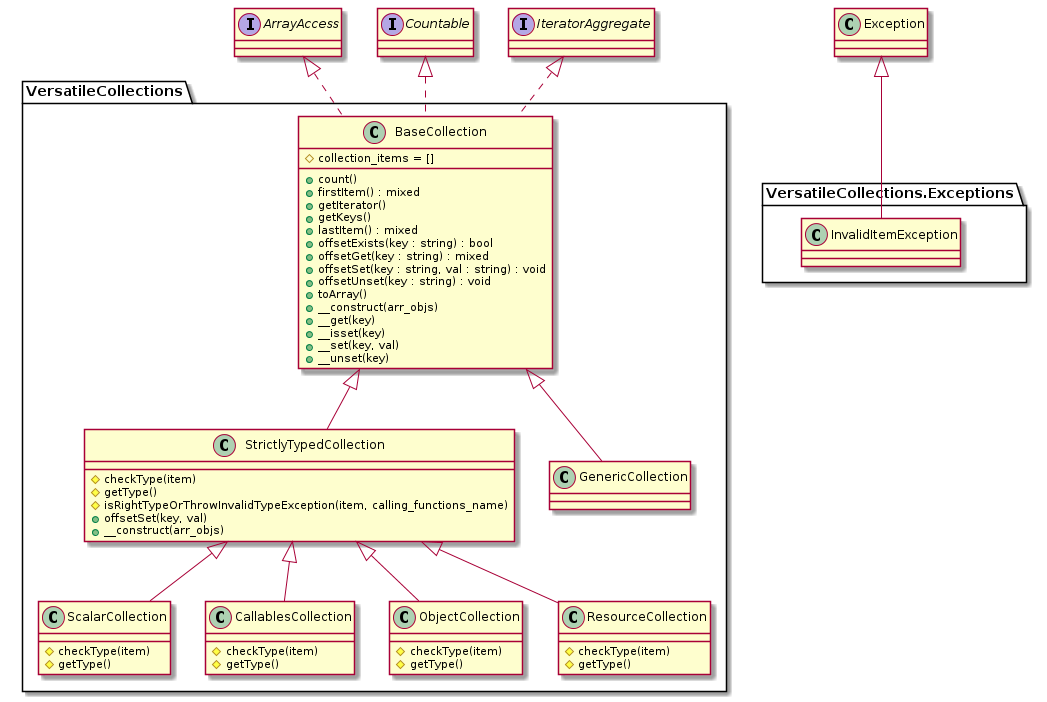
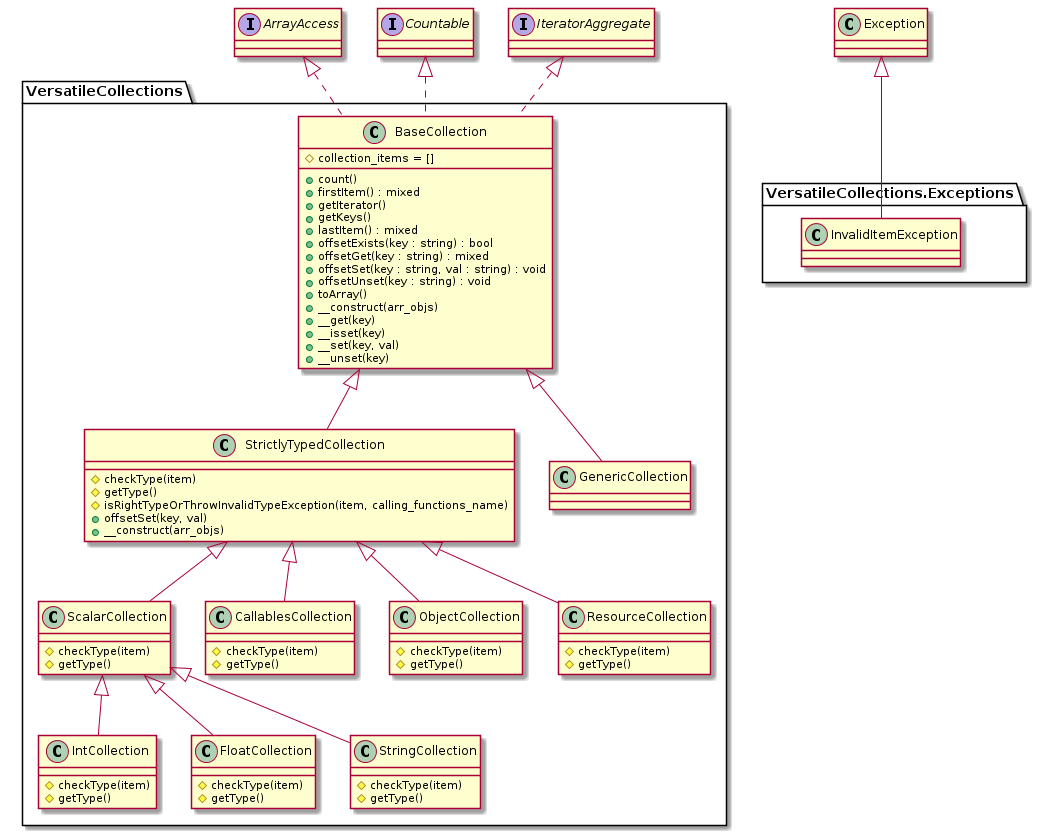
Another commit

diff --git a/src/StringCollection.php b/src/StringCollection.php
@@ -1,0 +1,20 @@
+<?php
+namespace VersatileCollections;
+
+/**
+ * Description of StringCollection
+ *
+ * @author rotimi
+ */
+class StringCollection  extends ScalarCollection {
+
+    protected function checkType($item) {
+        
+        return is_string($item);
+    }
+
+    protected function getType() {
+        
+        return 'string';
+    }
+}

diff --git a/src/FloatCollection.php b/src/FloatCollection.php
@@ -1,0 +1,20 @@
+<?php
+namespace VersatileCollections;
+
+/**
+ * Description of FloatCollection
+ *
+ * @author rotimi
+ */
+class FloatCollection extends ScalarCollection {
+
+    protected function checkType($item) {
+        
+        return is_float($item);
+    }
+
+    protected function getType() {
+        
+        return 'float';
+    }
+}

diff --git a/src/IntCollection.php b/src/IntCollection.php
@@ -1,0 +1,20 @@
+<?php
+namespace VersatileCollections;
+
+/**
+ * Description of IntCollection
+ *
+ * @author rotimi
+ */
+class IntCollection extends ScalarCollection {
+
+    protected function checkType($item) {
+        
+        return is_int($item);
+    }
+
+    protected function getType() {
+        
+        return 'int';
+    }
+}
